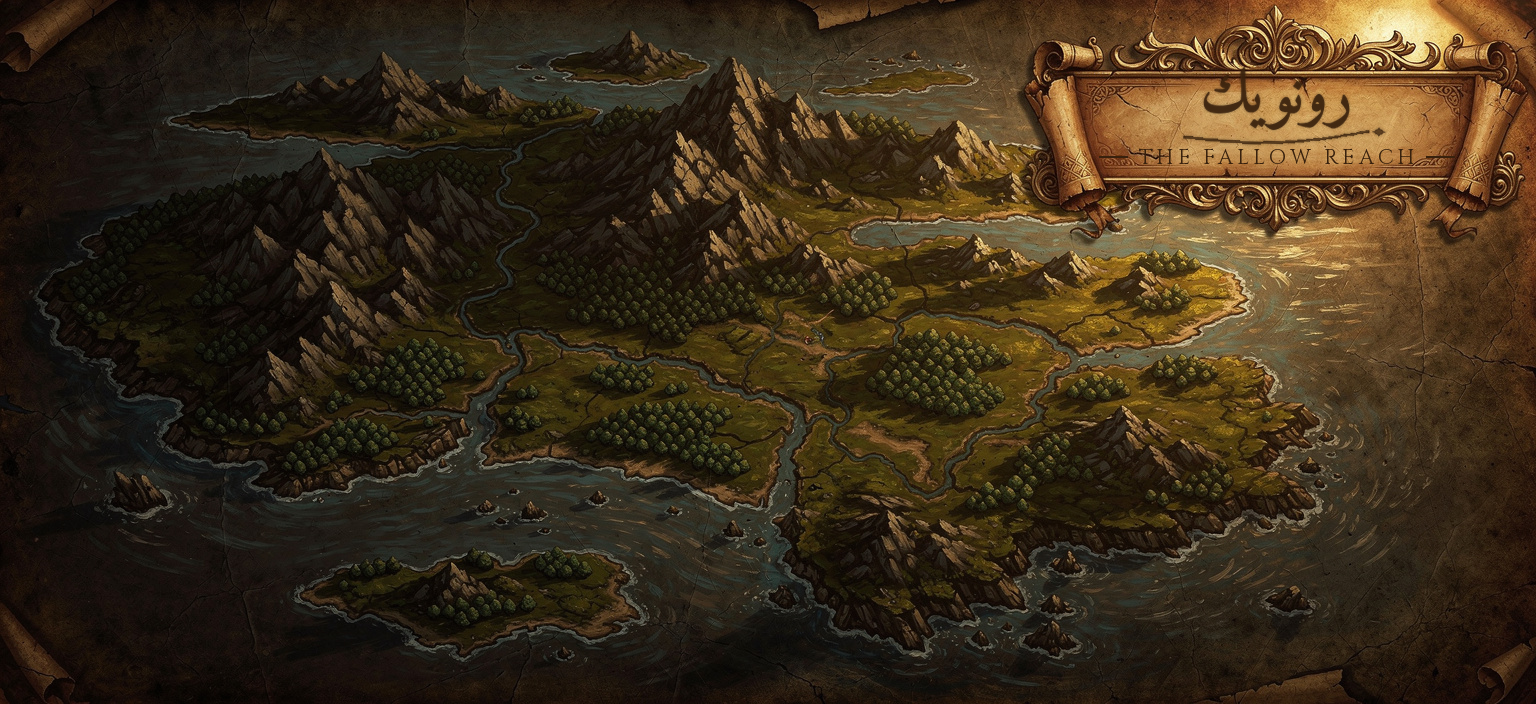
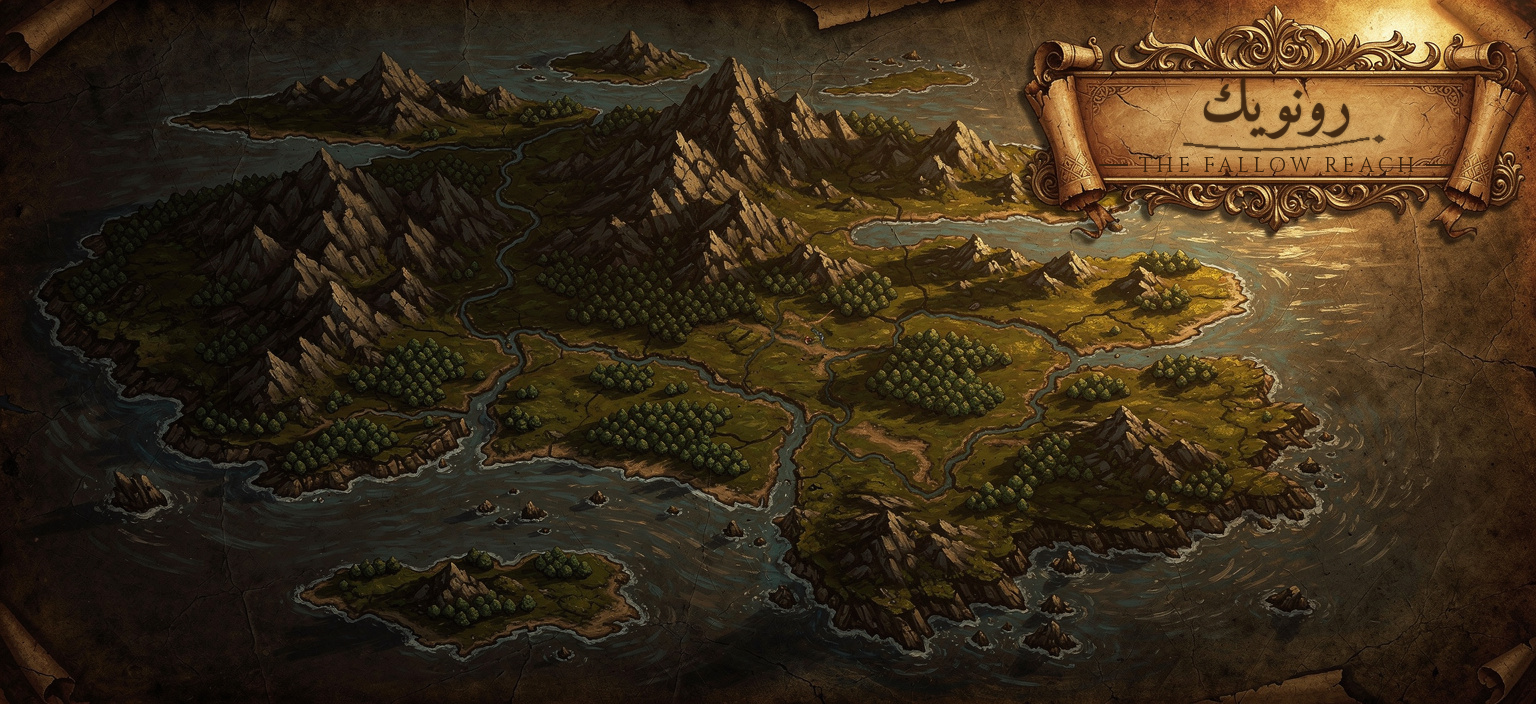
POLISH-30CAP-1: hard 30-card decks, seamless deck-builder scrolling, cartouche title centered
- DeckRules.MaxSize 40 -> 30 (Trikzos directive: one hard number, no range,
  no confusion). DeckValidator messages follow automatically; DeckRulesTests
  and DeckValidatorTests updated to pin exactly-30 (31 cards = too many).
  Boss signature card lands in the collection when the deck is full.
- DeckBuilderScene scrolling: grid rebuilds no longer yank the list to the
  top (scroll offset preserved across add/remove), mouse wheel now glides
  with a cubic tween instead of jumping, slim gold grabber on a faint track
  replaces the invisible scrollbar, 24px touch deadzone so small drags press
  cards and longer drags scroll (native fling preserved), deck list gets the
  same deadzone.
- map_plate.png: title block re-baked ~10px lower — scribble + THE FALLOW
  REACH now sit centered in the parchment cartouche.

Verified: dotnet build 0 errors; deck_test capture shows 30/30 and the new
scrollbar; map capture shows the centered cartouche title.

Claude-Session: https://claude.ai/code/session_01VNwHMtECA3drs76DyK6jbu

Changed region(s): [[0.7188, 0.0938, 0.9375, 0.25]]

diff --git a/client/scripts/DeckBuilderScene.cs b/client/scripts/DeckBuilderScene.cs
@@ -342,10 +342,35 @@ public partial class DeckBuilderScene : Control
         _gridScroll.SizeFlagsHorizontal = (SizeFlags)3;
         _gridScroll.SizeFlagsVertical = (SizeFlags)3;
         _gridScroll.VerticalScrollMode = ScrollContainer.ScrollMode.Auto;
-        // Subtle gold-tinted scrollbar
-        var scrollbar = new StyleBoxEmpty();
-        _gridScroll.AddThemeStyleboxOverride("scroll", scrollbar);
-        _gridScroll.AddThemeColorOverride("scroll_color", new Color(0.83f, 0.72f, 0.45f, 0.3f));
+        // Touch tuning: small drags press cards, longer drags scroll the grid
+        _gridScroll.ScrollDeadzone = 24;
+        // Visible-but-elegant scrollbar: slim gold grabber on a faint track
+        var vsb = _gridScroll.GetVScrollBar();
+        vsb.CustomMinimumSize = new Vector2(8, 0);
+        vsb.CustomStep = 120;
+        vsb.AddThemeStyleboxOverride("scroll", new StyleBoxFlat
+        {
+            BgColor = new Color(0f, 0f, 0f, 0.18f),
+            CornerRadiusTopLeft = 4, CornerRadiusTopRight = 4,
+            CornerRadiusBottomLeft = 4, CornerRadiusBottomRight = 4
+        });
+        var grabber = new StyleBoxFlat
+        {
+            BgColor = new Color(0.83f, 0.72f, 0.45f, 0.55f),
+            CornerRadiusTopLeft = 4, CornerRadiusTopRight = 4,
+            CornerRadiusBottomLeft = 4, CornerRadiusBottomRight = 4
+        };
+        var grabberHi = new StyleBoxFlat
+        {
+            BgColor = new Color(0.9f, 0.8f, 0.5f, 0.85f),
+            CornerRadiusTopLeft = 4, CornerRadiusTopRight = 4,
+            CornerRadiusBottomLeft = 4, CornerRadiusBottomRight = 4
+        };
+        vsb.AddThemeStyleboxOverride("grabber", grabber);
+        vsb.AddThemeStyleboxOverride("grabber_highlight", grabberHi);
+        vsb.AddThemeStyleboxOverride("grabber_pressed", grabberHi);
+        // Smooth animated wheel scrolling (touch drag keeps native inertia)
+        _gridScroll.GuiInput += OnGridScrollInput;
         _leftPanel.AddChild(_gridScroll);
 
         // Dynamic grid container (not GridContainer — we lay out rows manually for proper fill)
@@ -467,6 +492,7 @@ public partial class DeckBuilderScene : Control
 
         // Deck list scroll
         _deckListScroll = new ScrollContainer();
+        _deckListScroll.ScrollDeadzone = 24;
         _deckListScroll.SizeFlagsVertical = (SizeFlags)3;
         _deckListScroll.SizeFlagsHorizontal = (SizeFlags)3;
         railVbox.AddChild(_deckListScroll);
@@ -882,8 +908,54 @@ public partial class DeckBuilderScene : Control
     // REFRESH
     // ════════════════════════════════════════════════════════════════
 
-    private void RefreshCardGrid()
+    // ── Smooth scrolling state ──
+    private Tween _gridScrollTween;
+    private float _gridScrollTarget = -1f;
+
+    /// <summary>
+    /// Animated mouse-wheel scrolling for the card grid. Consumes the raw
+    /// wheel event (so the ScrollContainer's instant jump never runs) and
+    /// tweens toward an accumulating target for a seamless glide.
+    /// Touch drag/fling is untouched — that keeps native inertia.
+    /// </summary>
+    private void OnGridScrollInput(InputEvent @event)
     {
+        if (@event is not InputEventMouseButton mb || !mb.Pressed) return;
+        if (mb.ButtonIndex != MouseButton.WheelUp && mb.ButtonIndex != MouseButton.WheelDown) return;
+
+        var bar = _gridScroll.GetVScrollBar();
+        float max = Mathf.Max(0f, (float)(bar.MaxValue - bar.Page));
+        float step = 170f * (mb.Factor > 0f ? mb.Factor : 1f);
+        float from = _gridScrollTarget >= 0f ? _gridScrollTarget : _gridScroll.ScrollVertical;
+        _gridScrollTarget = Mathf.Clamp(
+            from + (mb.ButtonIndex == MouseButton.WheelUp ? -step : step), 0f, max);
+
+        _gridScrollTween?.Kill();
+        _gridScrollTween = CreateTween();
+        _gridScrollTween.TweenProperty(_gridScroll, "scroll_vertical", (int)_gridScrollTarget, 0.16f)
+            .SetTrans(Tween.TransitionType.Cubic).SetEase(Tween.EaseType.Out);
+        _gridScrollTween.Finished += () => _gridScrollTarget = -1f;
+
+        _gridScroll.AcceptEvent();
+    }
+
+    /// <summary>
+    /// Restore the grid's scroll offset after a rebuild, once the new layout
+    /// has settled (two frames: QueueFree flush + container re-layout).
+    /// Without this, every card tap yanked the list back to the top.
+    /// </summary>
+    private async void RestoreGridScroll(int value)
+    {
+        await ToSignal(GetTree(), SceneTree.SignalName.ProcessFrame);
+        await ToSignal(GetTree(), SceneTree.SignalName.ProcessFrame);
+        if (IsInstanceValid(_gridScroll))
+            _gridScroll.ScrollVertical = value;
+    }
+
+    private void RefreshCardGrid(bool preserveScroll = false)
+    {
+        int keepScroll = preserveScroll && _gridScroll != null ? _gridScroll.ScrollVertical : 0;
+
         foreach (var child in _cardGrid.GetChildren())
             child.QueueFree();
 
@@ -945,6 +1017,9 @@ public partial class DeckBuilderScene : Control
                 row.AddChild(item);
             }
         }
+
+        if (preserveScroll && keepScroll > 0)
+            RestoreGridScroll(keepScroll);
     }
 
     private void RefreshDeckList()
@@ -1149,7 +1224,7 @@ public partial class DeckBuilderScene : Control
 
         _deckCardIds.Add(cardId);
         _modified = true;
-        RefreshCardGrid();
+        RefreshCardGrid(preserveScroll: true);
         RefreshDeckList();
         RefreshCurve();
         UpdateCount();
@@ -1163,7 +1238,7 @@ public partial class DeckBuilderScene : Control
 
         _deckCardIds.RemoveAt(idx);
         _modified = true;
-        RefreshCardGrid();
+        RefreshCardGrid(preserveScroll: true);
         RefreshDeckList();
         RefreshCurve();
         UpdateCount();

diff --git a/tests/State/DeckValidatorTests.cs b/tests/State/DeckValidatorTests.cs
@@ -9,7 +9,7 @@ namespace Runewake.Tests.State;
 public class DeckValidatorTests
 {
     // Build enough unique cards that we can construct valid decks within singleton rules.
-    // We need at least 40 unique Verdant COMMON cards to test max-size scenarios.
+    // We need more than 30 unique Verdant COMMON cards to test max-size scenarios.
     private static readonly List<CardDef> VerdantCards;
     private static readonly List<CardDef> EmberCards;
 
@@ -73,11 +73,13 @@ public class DeckValidatorTests
     }
 
     [Fact]
-    public void Validate_40Cards_IsValid()
+    public void Validate_31Cards_TooMany()
     {
-        var deck = BuildDeck(VerdantCards, 40);
+        var deck = BuildDeck(VerdantCards, 31);
         var result = DeckValidator.Validate(deck, Lookup);
-        Assert.True(result.IsValid);
+        Assert.False(result.IsValid);
+        Assert.Contains(result.Errors, e => e.Contains("too many cards")
+            && e.Contains("/30 maximum"));
     }
 
     [Fact]
@@ -87,7 +89,7 @@ public class DeckValidatorTests
         var result = DeckValidator.Validate(deck, Lookup);
         Assert.False(result.IsValid);
         Assert.Contains(result.Errors, e => e.Contains("too many cards")
-            && e.Contains("/40 maximum"));
+            && e.Contains("/30 maximum"));
     }
 
     // ——— Singleton ———

diff --git a/client/scripts/DuelScene.cs b/client/scripts/DuelScene.cs
@@ -2674,8 +2674,9 @@ public partial class DuelScene : Control
                     if (firstTime)
                         prog.AddCard(rewardCardId!);
 
-                    // Slot it straight into the active deck when legal
-                    // (singleton respected, 40-card ceiling respected)
+                    // Slot it straight into the active deck when legal.
+                    // With the hard 30-card rule a full deck stays untouched —
+                    // the card lands in the collection for the Forge instead.
                     var activeDeckId = CampaignContext.ActiveProfile?.ActiveDeckId;
                     var deck = !string.IsNullOrEmpty(activeDeckId)
                         ? CampaignContext.DeckLibrary.Find(d => d.DeckId == activeDeckId)

diff --git a/engine/State/DeckRules.cs b/engine/State/DeckRules.cs
@@ -5,7 +5,8 @@ namespace Runewake.Engine.State;
 /// Both bounds live here — never scattered constants.
 ///
 /// Current rules at launch:
-///   • 30 to 40 cards inclusive
+///   • exactly 30 cards (min == max — Trikzos directive 2026-08-25:
+///     one hard number, no range, no confusion)
 ///   • Singleton: max 1 copy of each unique card id
 ///   • Artifacts are NOT deck cards (chosen separately via artifactSlots)
 /// </summary>
@@ -15,7 +16,7 @@ public static class DeckRules
     public const int MinSize = 30;
 
     /// <summary>Maximum deck size (inclusive).</summary>
-    public const int MaxSize = 40;
+    public const int MaxSize = 30;
 
     /// <summary>
     /// True = at most one copy of any card definition id per deck.

diff --git a/tests/State/DeckRulesTests.cs b/tests/State/DeckRulesTests.cs
@@ -15,9 +15,9 @@ public class DeckRulesTests
     }
 
     [Fact]
-    public void MaxSize_Is40()
+    public void MaxSize_Is30()
     {
-        Assert.Equal(40, DeckRules.MaxSize);
+        Assert.Equal(30, DeckRules.MaxSize);
     }
 
     [Fact]
@@ -33,9 +33,9 @@ public class DeckRulesTests
     }
 
     [Fact]
-    public void RangeSpan_Is11()
+    public void RangeSpan_Is1()
     {
-        // 30..40 inclusive = 11 possible sizes
-        Assert.Equal(11, DeckRules.MaxSize - DeckRules.MinSize + 1);
+        // exactly 30 — a single legal size
+        Assert.Equal(1, DeckRules.MaxSize - DeckRules.MinSize + 1);
     }
 }

diff --git a/engine/State/DeckValidator.cs b/engine/State/DeckValidator.cs
@@ -25,7 +25,7 @@ public sealed class DeckValidationResult
 /// Engine-owned deck legality rules.
 ///
 /// A legal deck must satisfy ALL of:
-///   • 30 to 40 cards inclusive
+///   • exactly 30 cards (DeckRules.MinSize == DeckRules.MaxSize)
 ///   • Singleton: at most 1 copy of any card id
 ///
 /// Rules are defined in <see cref="DeckRules"/> — the single source of truth.

diff --git a/TASKS_QUEUE.md b/TASKS_QUEUE.md
@@ -14,6 +14,7 @@
   pull, dotnet build, run engine tests (Claude's sandbox lacks nuget access — confirm 709+ green), capture choose_path and map
   (map chip must read "Deck: <class starter name>" for a fresh profile), spot-check the Warden Aelin signature-card grant if a play hook exists, export APK,
   preflight, release, post captures + URL to the Runewake group.
+  ALSO in this ship (POLISH-30CAP-1, committed by Claude): hard 30-card deck rule (DeckRules.MaxSize 40→30 — DeckRulesTests/DeckValidatorTests updated to pin 30, expect suite delta there), deck-builder seamless scrolling (scroll position preserved on add/remove, smooth wheel glide, slim gold scrollbar, touch deadzone), and the cartouche title re-centered in the map plate.
   Acceptance: tests green, captures pass, APK released, posted to group.
 
 - [x] TASK-SHIP-MAP2 — Ship the map polish pass (already committed by Claude as MAP-POLISH-2; verified with local captures at 1152x648 + 1999x932). No code changes needed — this is a BUILD + SHIP task only: pull, dotnet build, run map capture at both resolutions to confirm (green squares gone, medallions on terrain, cartouche shows calligraphy + THE FALLOW REACH, info panel bottom-right clear of the Forge/Rune Page/Settings stack), export APK, preflight, release, post captures + URL to the Runewake group.
